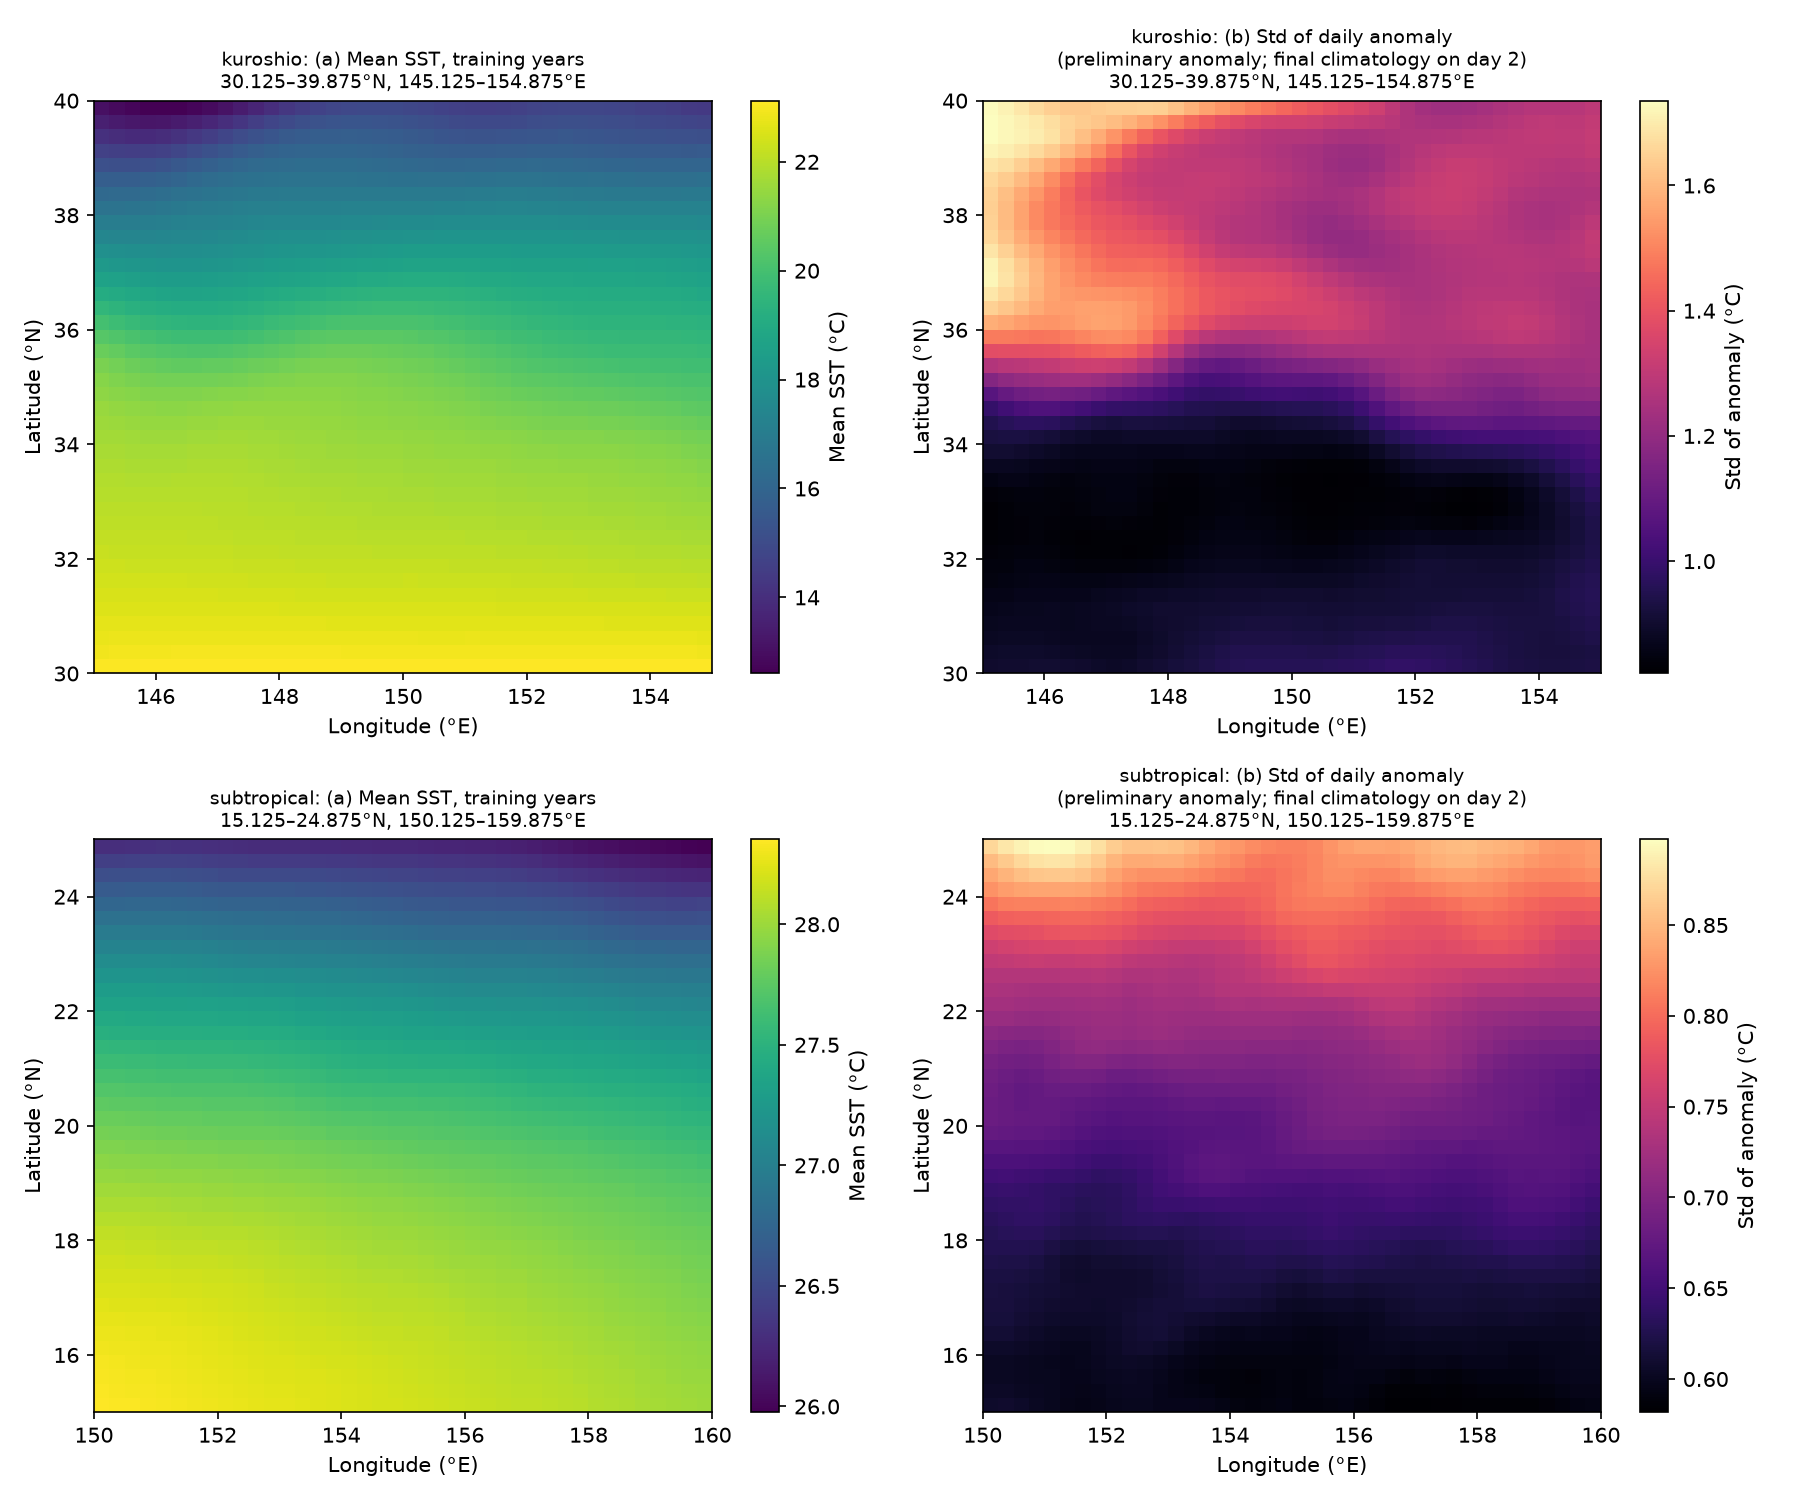
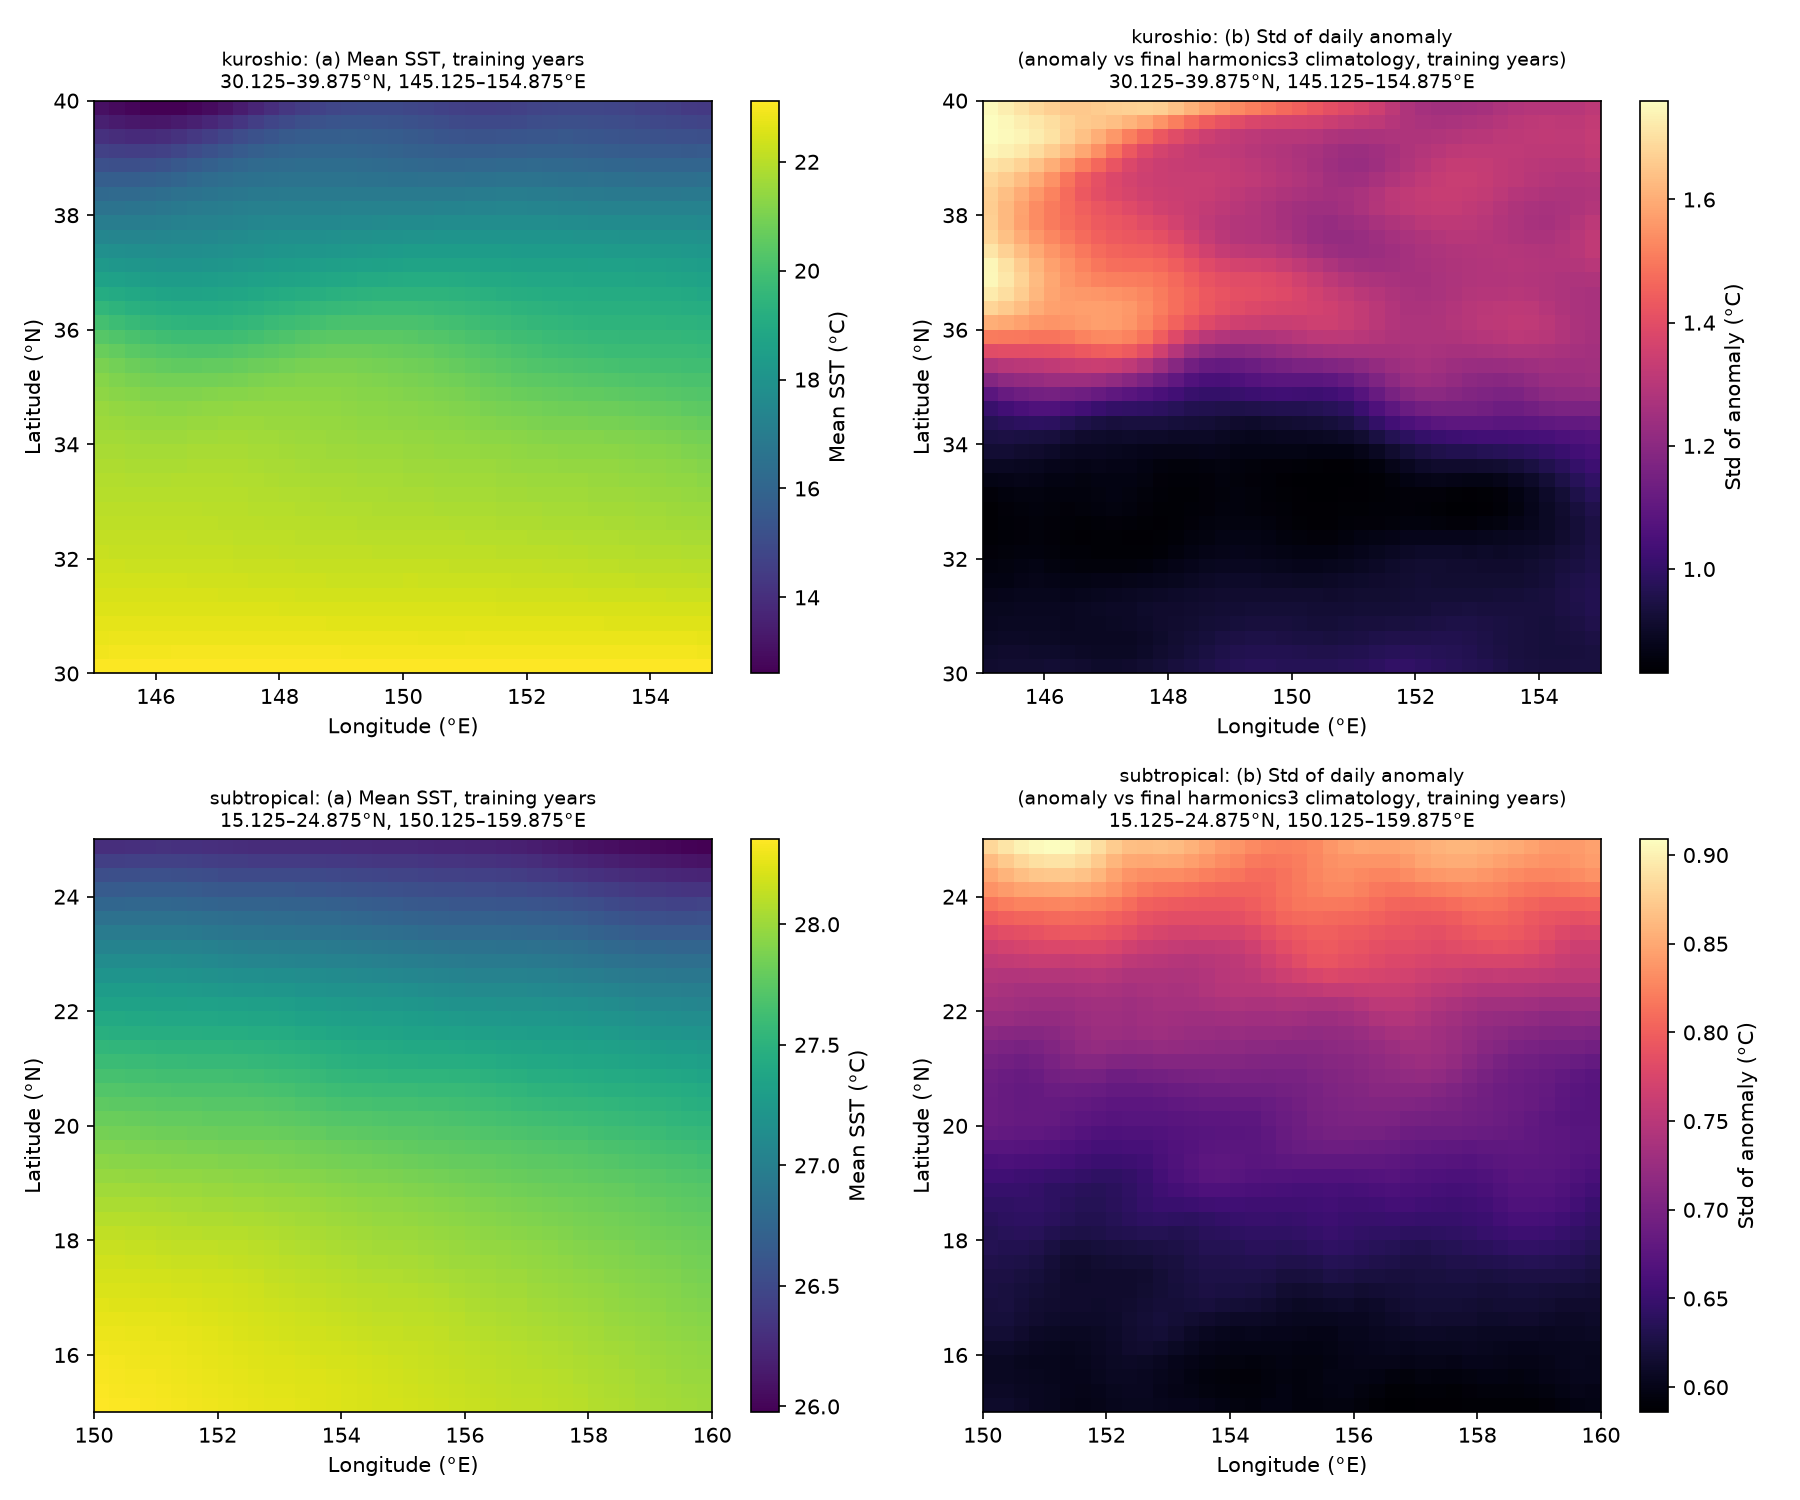
Fig 1 panel (b) from final harmonics3 climatology; region_stats.json written as preliminary + final

diff --git a/src/sst/figures.py b/src/sst/figures.py
@@ -8,6 +8,7 @@ import matplotlib.pyplot as plt
 import numpy as np
 import xarray as xr
 
+from sst.climatology import anomaly, build_climatology
 from sst.download import ROOT, load_config
 
 RESULTS = ROOT / "results"
@@ -65,21 +66,32 @@ def region_stats(anom_train):
 
 
 def main():
+    """Figure 1 with panel (b) from the FINAL training climatology (cfg smoothing, training years only).
+
+    region_stats.json layout: {"preliminary": <kept from the existing file, or computed from the unsmoothed
+    day-of-year mean if absent>, "final": <computed here from the final climatology>}."""
     cfg = load_config()
     train = cfg["split"]["train"]
     names = list(cfg["regions"])
+    path = RESULTS / "region_stats.json"
+    old = json.loads(path.read_text()) if path.exists() else {}
+    prelim = old.get("preliminary") or (old if "kuroshio" in old else None)
+    compute_prelim = prelim is None
+    if compute_prelim:
+        prelim = {"anomaly_definition": "SST minus training-years (%s to %s) unsmoothed day-of-year mean; preliminary" % tuple(train)}
+    final = {"anomaly_definition": "SST minus FINAL training climatology (%s, years %s to %s); cos(lat) weights"
+             % (cfg["climatology"]["smoothing"], *train)}
     fig, axes = plt.subplots(len(names), 2, figsize=(12, 5 * len(names)))
-    stats = {"anomaly_definition": "SST minus training-years (%s to %s) day-of-year mean; preliminary" % tuple(train)}
     for i, region in enumerate(names):
-        sst = xr.open_dataset(ROOT / "data" / "processed" / f"{region}.nc")["sst"]
+        sst = xr.open_dataset(ROOT / "data" / "processed" / f"{region}.nc")["sst"].sel(time=slice(None, train[1])).load()
         b = cfg["regions"][region]
         box = f"{b['lat_min']}–{b['lat_max']}°N, {b['lon_min']}–{b['lon_max']}°E"
         tr = sst.sel(time=slice(*train))
-        anom_tr = preliminary_anomaly(sst, train).sel(time=slice(*train))
+        anom_tr = anomaly(tr, build_climatology(sst, cfg))
         panels = [
             (tr.mean("time"), "viridis", "Mean SST (°C)", "(a) Mean SST, training years"),
             (anom_tr.std("time"), "magma", "Std of anomaly (°C)",
-             "(b) Std of daily anomaly\n(preliminary anomaly; final climatology on day 2)"),
+             f"(b) Std of daily anomaly\n(anomaly vs final {cfg['climatology']['smoothing']} climatology, training years)"),
         ]
         for ax, (field, cmap, label, title) in zip(axes[i], panels):
             m = ax.pcolormesh(field.longitude, field.latitude, field, cmap=cmap, shading="auto")
@@ -87,12 +99,14 @@ def main():
             ax.set_xlabel("Longitude (°E)")
             ax.set_ylabel("Latitude (°N)")
             ax.set_title(f"{region}: {title}\n{box}", fontsize=9)
-        stats[region] = region_stats(anom_tr)
+        final[region] = region_stats(anom_tr)
+        if compute_prelim:
+            prelim[region] = region_stats(preliminary_anomaly(sst, train).sel(time=slice(*train)))
     fig.tight_layout()
     (RESULTS / "figures").mkdir(parents=True, exist_ok=True)
     fig.savefig(RESULTS / "figures" / "fig1_regions.png", dpi=150)
-    (RESULTS / "region_stats.json").write_text(json.dumps(stats, indent=2))
-    print(json.dumps(stats, indent=2))
+    path.write_text(json.dumps({"preliminary": prelim, "final": final}, indent=2))
+    print(json.dumps(final, indent=2))
 
 
 if __name__ == "__main__":

diff --git a/README.md b/README.md
@@ -71,7 +71,6 @@ Validation (2016–2019) complete for all baselines and Ridge. **Test period not
   there, see `results/ridge_alphas.json`); the grid was not extended.
 - OISST is an analysis (interpolated from satellites and in situ data), not raw observations; its character changes over time.
 - 1,194 days per region come from a second source (PSL), validated but with a v2/v2.1 label change at 2016.
-- Figure 1 (`fig1_regions.png`) still shows the preliminary (unsmoothed day-of-year) anomaly std; the scores and the final region stats use the harmonics3 climatology.
 - Only SST is used; no other predictors, no probabilistic scores, no uncertainty intervals yet.
 
 ## How this was built
